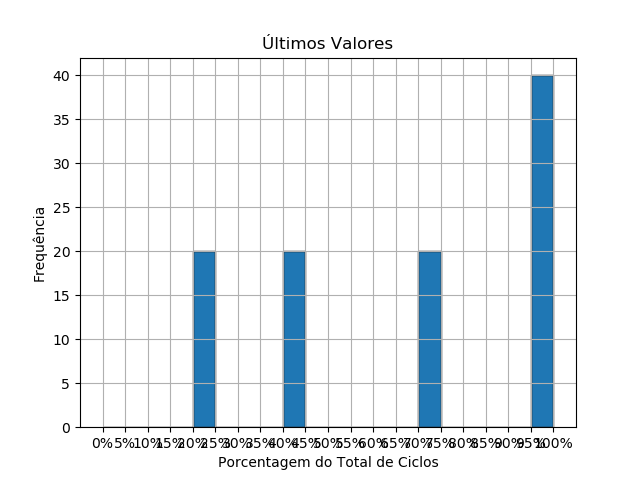
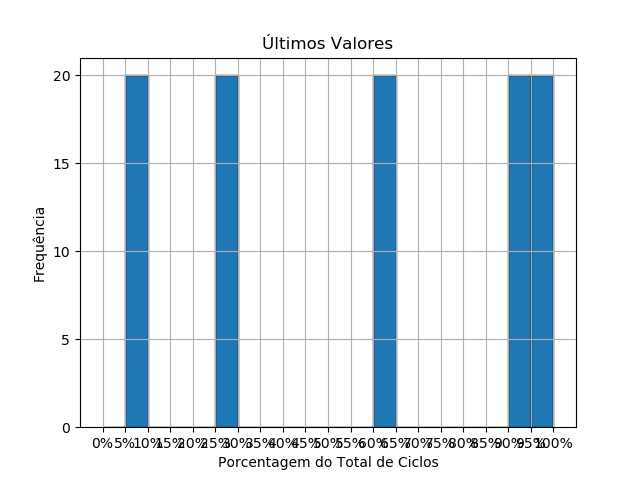
script plot fixed

diff --git a/graph.py b/graph.py
@@ -9,6 +9,7 @@ def plot(values, info, cycles,file_name='teste1.png'):
     maxBest = max(values)
     print('max = ', maxBest)
     if info == 'bestValues':
+        plt.clf()
         ranges = np.linspace(0, maxBest, 21)
         percent_ticks = np.linspace(0, 100, 21)  # De 0 a 100%, 21 ticks para 5% a cada ponto
         plt.xticks(ranges, [f'{int(p)}%' for p in percent_ticks])
@@ -20,9 +21,10 @@ def plot(values, info, cycles,file_name='teste1.png'):
         plt.ylabel('Frequência')
         plt.grid(True)
         plt.savefig("images/" + file_name)
-        plt.show()#Comentar para não travar execução do script
+        #plt.show()#Comentar para não travar execução do script
 
     elif info == 'lastValues':
+        plt.clf()
         ranges = np.linspace(0, maxBest, 21)
         percent_ticks = np.linspace(0, 100, 21)  # De 0 a 100%, 21 ticks para 5% a cada ponto
         plt.xticks(ranges, [f'{int(p)}%' for p in percent_ticks])
@@ -37,6 +39,7 @@ def plot(values, info, cycles,file_name='teste1.png'):
         plt.show()#Comentar para não travar execução do script
 
     elif info == 'bestCycles':
+        plt.clf()
         ranges = np.linspace(0, maxBest, 21)
         percent_ticks = np.linspace(0, 100, 21)  # De 0 a 100%, 21 ticks para 5% a cada ponto
         plt.xticks(ranges, [f'{int(p)}%' for p in percent_ticks])

diff --git a/simulated_annealing.py b/simulated_annealing.py
@@ -45,7 +45,7 @@ def annealingAlgorithm(weights, values, bag_capacity, t_selector, random_start_f
             if sucessor_state_profit > higher_profit:
                 higher_profit, best_time = sucessor_state_profit, time
         time += 1
-    return higher_profit, best_time, initial_state_profit, (time -1)    
+    return higher_profit, best_time, initial_state_profit, (time -1)   
 
 def profit_calculate(state, weights, values, bag_capacity):
     if (sum(state * weights) <= bag_capacity):#if fits in the bag

diff --git a/main_script.py b/main_script.py
@@ -12,4 +12,5 @@ def execute_annealing(t_selector, random_start_flag):
     result = subprocess.run(comand) 
     print(f"========================================================================\n  {' '.join(comand)} - EXECUTED\n========================================================================\n")
 
+execute_annealing('0', 'True')
 execute_annealing('1', 'True')
